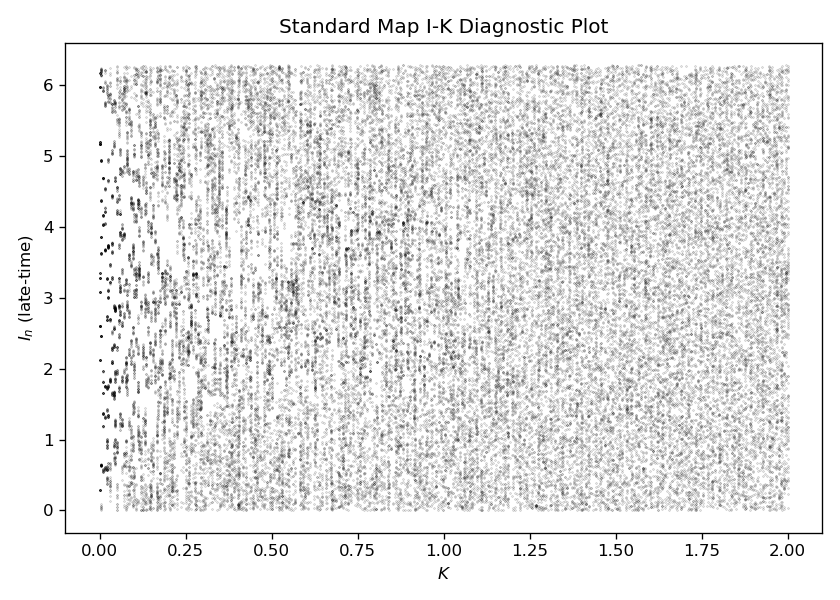
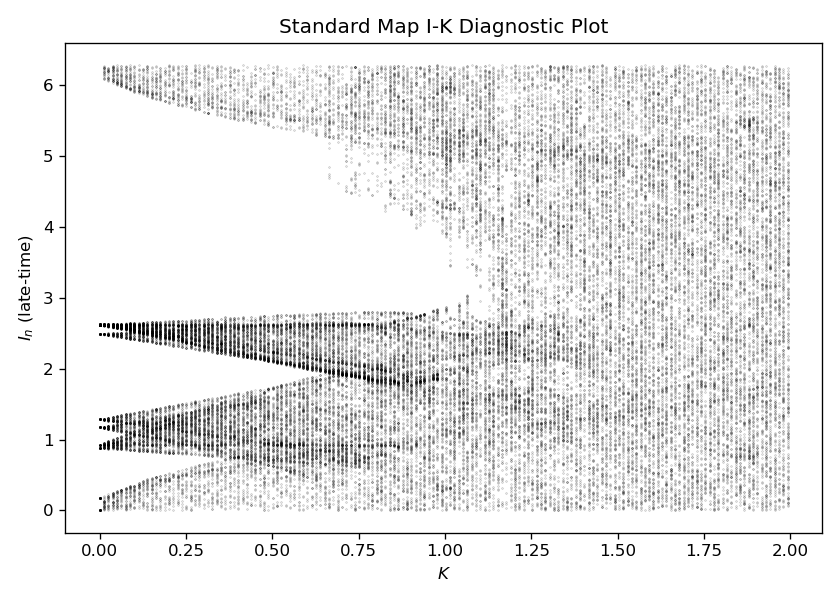
Tweaked plots

diff --git a/README.md b/README.md
@@ -114,7 +114,7 @@ The Taylor-Greene-Chirikov Map, or Standard Map, is a two-dimensional discrete-t
 > $\theta_{n+1} = (\theta_n + I_{n+1}) \bmod 2\pi$
 > </p>
 
-$I$ and $\theta$ are periodic real-valued variables within $[0, 2\pi)$, while $K$ is a nonnegative real number. The exact value of $K$ that results in chaotic behavior is not known, but several papers ([here](https://arxiv.org/pdf/2509.11593) and [here](https://pubs.aip.org/aip/jmp/article-abstract/20/6/1183/449401/A-method-for-determining-a-stochastic-transition?redirectedFrom=fulltext), for example) have attempted to identify a reasonable bound for the coefficient.
+$I$ and $\theta$ are periodic real-valued variables within $[0, 2\pi)$, while $K$ is a nonnegative real number representing the kick value. The exact value of $K$ that results in chaotic behavior is not known, but several papers ([here](https://arxiv.org/pdf/2509.11593) and [here](https://pubs.aip.org/aip/jmp/article-abstract/20/6/1183/449401/A-method-for-determining-a-stochastic-transition?redirectedFrom=fulltext), for example) have attempted to identify a reasonable bound for the coefficient.
 
 This chaotic mapping is surprisingly commonplace (hence the *Standard* moniker), appearing in:
 - the dynamics of charged particles in mirror magnetic traps [9]
@@ -123,9 +123,11 @@ This chaotic mapping is surprisingly commonplace (hence the *Standard* moniker),
 - the microwave ionization of Rydberg atoms [12]
 and much more.
 
-## Properties
+## Properties [13]
 
-The Standard Map is an **area-preserving** map
+The Standard Map is an **area-preserving** map due to the modulo functions, which means that the state variables can be mapped onto a torus. At low values of $K$, the invariant Kolmogorov-Arnold-Moser (KAM) curves are well-defined and prevent the momentum $I$ from taking on values beyond a certain "width" based on its initial value &mdash; thereby preventing chaotic behavior from appearing.
+
+Beyond $K\approx 0.971635...$, the last KAM curve is destroyed, leading to "tori" or islands of stable orbits embedded in a densely-packed swath of chaos. As $K$ increases, the size of the islands shrink as the variation of $I$ is characterized by a diffusive growth patter: $I^2\simeq D_0t$, where $t$ is the number of iterations of the Standard Map.
 
 # Working Examples
 
@@ -294,6 +296,7 @@ As for theoretical exploration, the following ideas arise:
 10. F.M.Izraelev, "Nearly linear mappings and their applications", Physica D 1(3): 243 (1980).
 11. T.Y.Petrosky, "Chaos and cometary clouds in the solar system", Phys. Lett. A 117(7): 328 (1986).
 12. G.Casati, I.Guarneri, D.L.Shepelyansky, "Hydrogen atom in monochromatic field: chaos and dynamical photonic localization", IEEE J. of Quant. Elect. 24: 1420 (1988).
+13. Boris Chirikov and Dima Shepelyansky (2008) Chirikov standard map. Scholarpedia, 3(3):3550.
 
 # Credits
 - Nguyen: `standardMap.py` class structure, utility functions, unit tests, front page README, and StandardMap README
